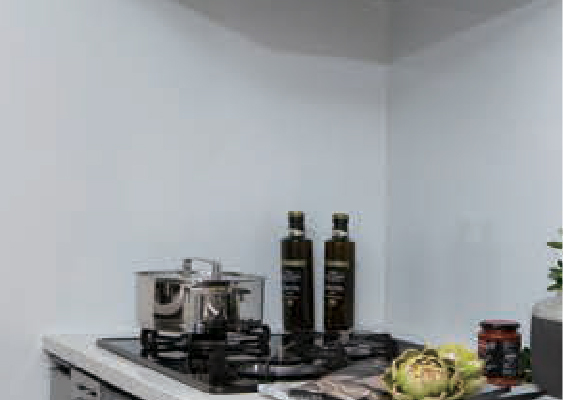
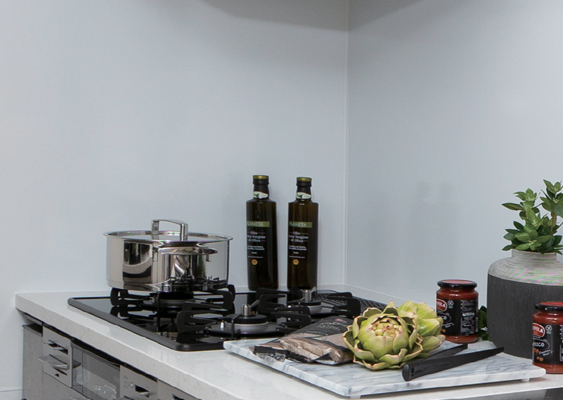
...

diff --git a/src/kuramae/assets/sass/styles.scss b/src/kuramae/assets/sass/styles.scss
@@ -3234,20 +3234,21 @@ a.disable {
     .design_img {
       margin-top: -65px;
       margin-bottom: 115px;
-      .img02 {
-        // margin-top: -65px;
-      }
       span {
         bottom: -200px;
         max-width: inherit;
         min-width: 282px;
       }
     }
+    .img_building {
+      top: -80px;
+      img {
+        width: 50%;
+      }
+    }
     .img_sumo {
       left: 15px;
     }
-
-    
   }
 
   .section_story {
@@ -3413,21 +3414,20 @@ a.disable {
 }
 
 @media (max-width: 992px) {
-  // .slide-main {
-  //   .slideContent {
-  //     .slide {
-  //       background-image: url('../images/main/bg_top_sp.jpg');
-  //     }
-  //   }
-  // }
   .section_design {
     .design_text {
       margin-top: 295px;
       margin-left: 15px;
       right: 15px;
     }
+    .img_building {
+      top: -80px;
+      img {
+        width: 50%;
+      }
+    }
   }
-
+  
   .section_story {
     padding-top: 0;
   }
@@ -3478,7 +3478,12 @@ a.disable {
       right: 15px;
     }
   }
+  
 
+}
+
+@media (max-width: 834px) {
+  
 }
 
 @media (max-width: 768px) {
@@ -4447,6 +4452,7 @@ a.disable {
   &::after {
     content: '';
     position: absolute;
+    z-index: -1;
     width: 100%;
     height: 100%;
     background: rgba(189, 189, 189, .2);
@@ -5552,3 +5558,4 @@ a.disable {
     }
   }
 }
+

diff --git a/src/kuramae/css/styles.css b/src/kuramae/css/styles.css
@@ -3060,6 +3060,12 @@ i.chevron-left {
     max-width: inherit;
     min-width: 282px;
   }
+  .section_design .img_building {
+    top: -80px;
+  }
+  .section_design .img_building img {
+    width: 50%;
+  }
   .section_design .img_sumo {
     left: 15px;
   }
@@ -3208,6 +3214,12 @@ i.chevron-left {
     margin-top: 295px;
     margin-left: 15px;
     right: 15px;
+  }
+  .section_design .img_building {
+    top: -80px;
+  }
+  .section_design .img_building img {
+    width: 50%;
   }
 
   .section_story {
@@ -4079,6 +4091,7 @@ i.chevron-left {
 .img_modelroom::after {
   content: '';
   position: absolute;
+  z-index: -1;
   width: 100%;
   height: 100%;
   background: rgba(189, 189, 189, 0.2);

diff --git a/src/kuramae/assets/css/styles.css b/src/kuramae/assets/css/styles.css
@@ -1894,11 +1894,6 @@ i.chevron-left {
 }
 .section_location iframe {
   margin-bottom: 35px;
-  -webkit-filter: grayscale(100%);
-  -moz-filter: grayscale(100%);
-  -ms-filter: grayscale(100%);
-  -o-filter: grayscale(100%);
-  filter: grayscale(100%);
   width: 100%;
 }
 .section_location .box_contact {

diff --git a/src/kuramae/plan.php b/src/kuramae/plan.php
@@ -165,7 +165,7 @@
                                                     <p>落ち着きのある色彩を基調とした洗練された佇まいが、新鮮な日常と深い寛ぎをもたらします。</p>
                                                 </div>
                                                 <div class="img_modelroom">
-                                                    <img src="images/bg_activerelax.jpg" alt="" class="img-fluid">
+                                                    <img src="https://www.prostyle-residence.com/kuramae/wp-content/uploads/2022/09/DSC8191ok3.jpg" alt="" class="img-fluid">
                                                 </div>
                                             </div>
                                         </div>
@@ -177,7 +177,7 @@
                                             <div class="row">
                                                 <div class="col-12 col-lg-5">
                                                     <div class="img_modelroom left">
-                                                        <img src="images/bg_activerelax.jpg" alt="" class="img-fluid">
+                                                        <img src="https://www.prostyle-residence.com/kuramae/wp-content/uploads/2022/09/DSC8173ok.jpg" alt="" class="img-fluid">
                                                     </div>
                                                 </div>
                                                 <div class="col-12 col-lg-7">
@@ -196,7 +196,7 @@
                         </div>
 
                         <div class="img_modelroom">
-                            <img src="images/bg_artisanshipdesign.jpg" alt="" class="img-fluid w-100">
+                            <img src="https://www.prostyle-residence.com/kuramae/wp-content/uploads/2022/09/DSC8239ok2.jpg" alt="DSC8239ok2" class="img-fluid w-100">
                         </div>
 
                         <section class="section_modelroom">

diff --git a/src/kuramae/equipment.php b/src/kuramae/equipment.php
@@ -290,7 +290,7 @@
                                                 <li>
                                                     <h6>ホーローキッチンパネル</h6>
                                                     <div class="box_img custom">
-                                                        <img src="images/kitchen06.jpg" alt="kitchen06" class="img-fluid">
+                                                        <img src="images/kitchen11.jpg" alt="kitchen11" class="img-fluid">
                                                     </div>
                                                     <p>目地が少ないので汚れにくく、日々のお手入れがカンタンです。ベースが金属でできているので、マグネット小物を使った自分だけのオリジナル収納スペースが作れます。</p>
                                                 </li>
